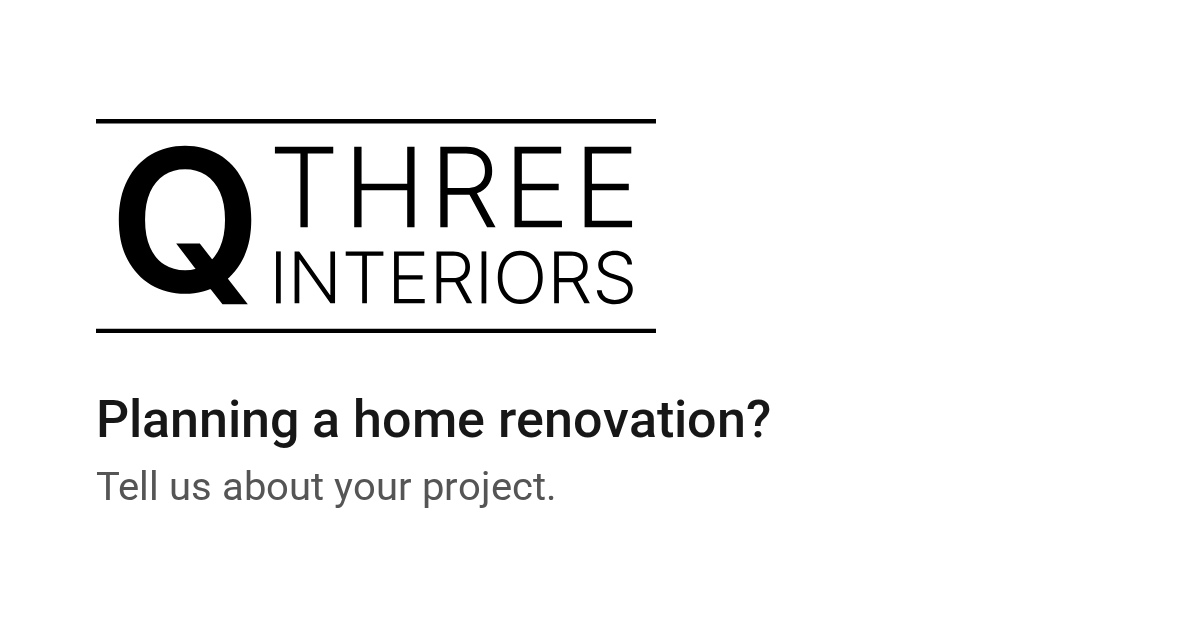
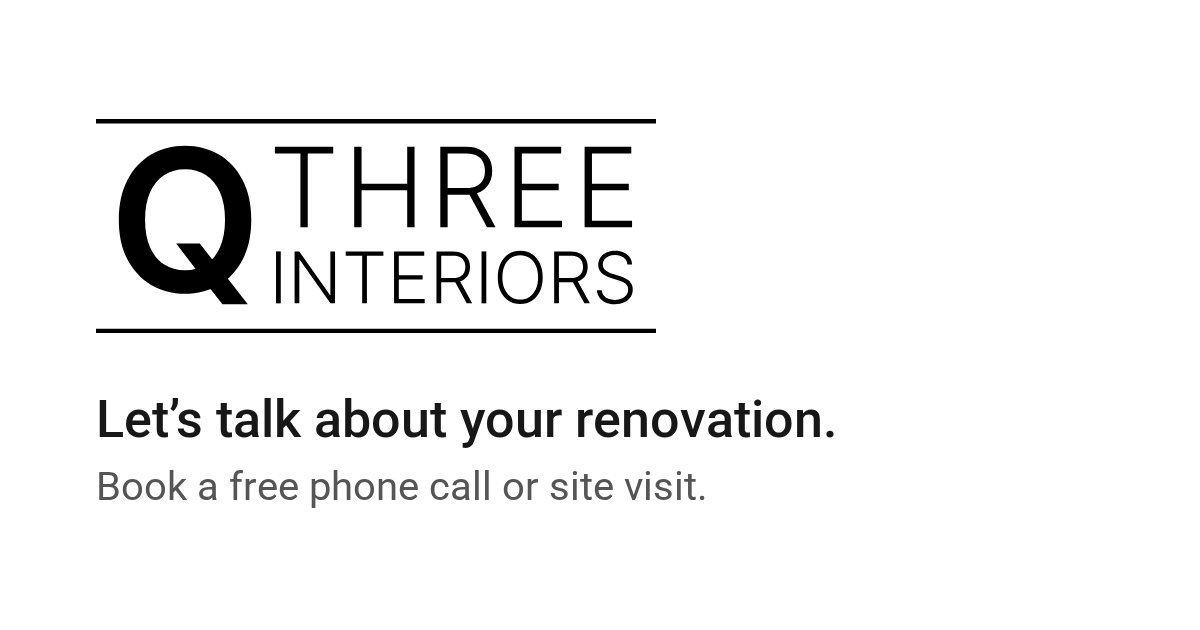
chore: link preview and meta for the new landing line
Claude-Session: https://claude.ai/code/session_01GDMogQ6xMxQyR5nM6bvxKe

Changed region(s): [[0.0925, 0.6333, 0.7092, 0.7238], [0.0617, 0.754, 0.5858, 0.8143]]

diff --git a/index.html b/index.html
@@ -8,7 +8,7 @@
     <title>Q3 Interiors</title>
     <meta
       name="description"
-      content="Planning a home renovation? Q3 Interiors coordinates the trades, visits your home and prepares an estimate. Tell us about your project."
+      content="Let’s talk about your renovation. Book a free phone call or site visit with Q3 Interiors: we coordinate the trades and prepare an estimate."
     />
     <link rel="icon" type="image/svg+xml" href="/favicon.svg" />
     <link rel="icon" type="image/png" sizes="32x32" href="/favicon-32.png" />
@@ -17,10 +17,10 @@
     <!-- Link previews. %SITE_URL% is replaced at build time from supabase/functions/_shared/site.ts. -->
     <meta property="og:type" content="website" />
     <meta property="og:site_name" content="Q3 Interiors" />
-    <meta property="og:title" content="Q3 Interiors: planning a home renovation?" />
+    <meta property="og:title" content="Q3 Interiors: let’s talk about your renovation" />
     <meta
       property="og:description"
-      content="We coordinate the trades, visit your home and prepare an estimate for the work you have in mind."
+      content="Book a free phone call or site visit. We coordinate the trades and prepare an estimate for the work you have in mind."
     />
     <meta property="og:url" content="%SITE_URL%/" />
     <meta property="og:image" content="%SITE_URL%/og/q3-og.png" />
@@ -28,14 +28,14 @@
     <meta property="og:image:height" content="630" />
     <meta
       property="og:image:alt"
-      content="The Q3 Interiors wordmark above the line: Planning a home renovation? Tell us about your project."
+      content="The Q3 Interiors wordmark above the line: Let’s talk about your renovation. Book a free phone call or site visit."
     />
     <meta property="og:locale" content="en_IE" />
     <meta name="twitter:card" content="summary_large_image" />
-    <meta name="twitter:title" content="Q3 Interiors: planning a home renovation?" />
+    <meta name="twitter:title" content="Q3 Interiors: let’s talk about your renovation" />
     <meta
       name="twitter:description"
-      content="We coordinate the trades, visit your home and prepare an estimate for the work you have in mind."
+      content="Book a free phone call or site visit. We coordinate the trades and prepare an estimate for the work you have in mind."
     />
     <meta name="twitter:image" content="%SITE_URL%/og/q3-og.png" />
   </head>
